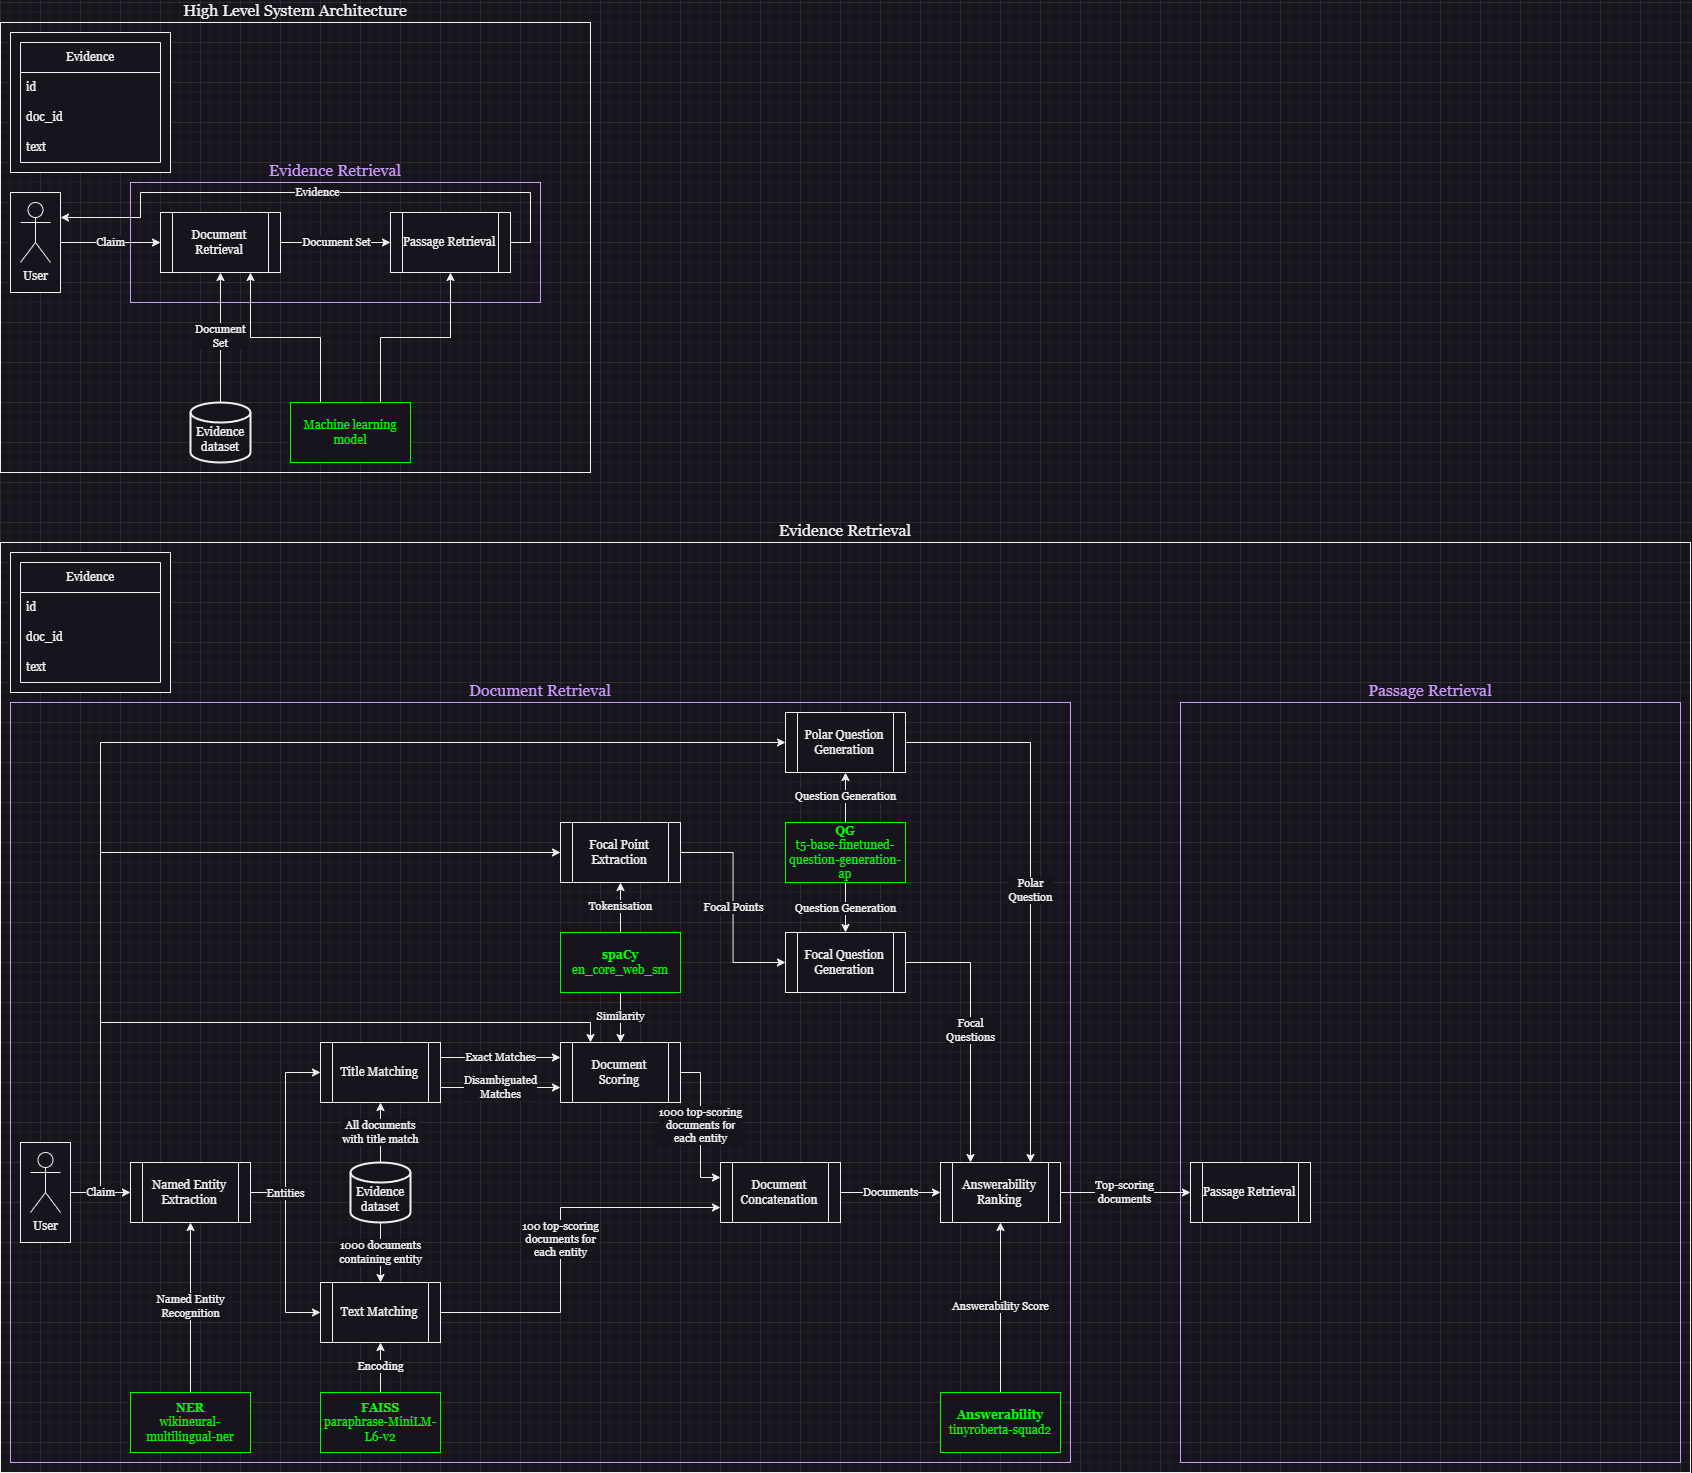
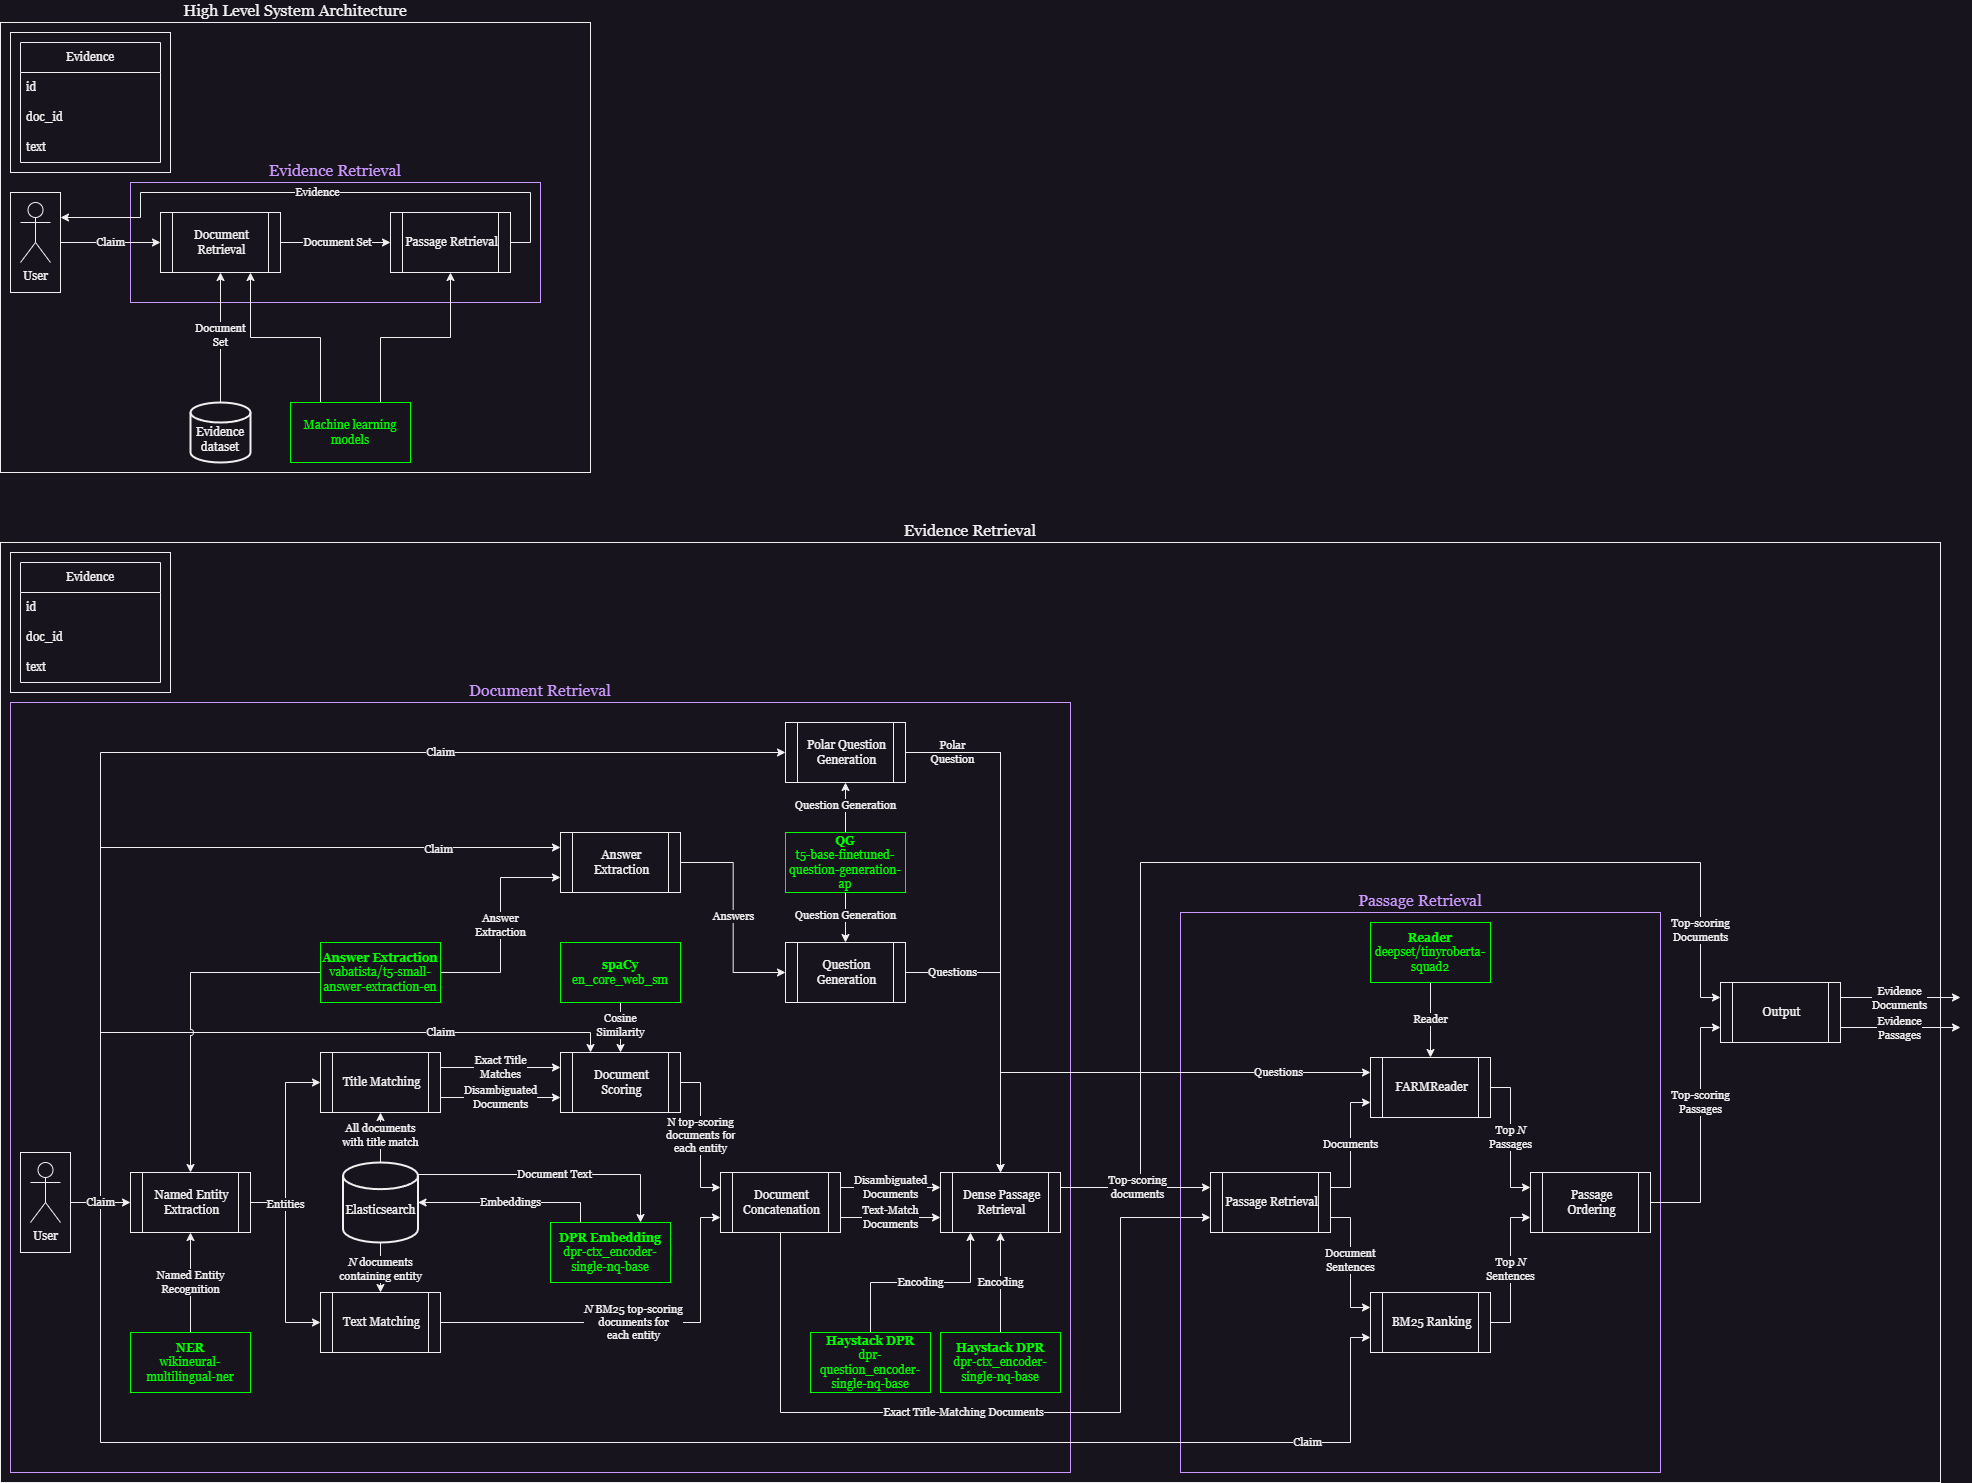
added BM25 ranking to passage retrieval, updated diagram

diff --git a/src/evidence_retrieval/evidence_retrieval.py b/src/evidence_retrieval/evidence_retrieval.py
@@ -11,6 +11,8 @@ from evidence_retrieval.tools.docstore_conversion import listdict_to_docstore, w
 from elasticsearch import Elasticsearch
 from dotenv import load_dotenv
 from tqdm import tqdm
+from rank_bm25 import BM25Okapi
+import re
 
 class EvidenceRetriever:
     def __init__(self, title_match_docs_limit=20, title_match_search_threshold=0, answerability_threshold=0.65, answerability_docs_limit=20, text_match_search_db_limit=1000, reader_threshold=0.7 ,questions=[]):
@@ -125,6 +127,55 @@ class EvidenceRetriever:
         return evidence_wrapper
 
     def retrieve_passages(self, evidence_wrapper):
+        # Retrieve passages using BM25 between the claim and evidence sentences
+        print("Retrieving passages using BM25")
+        claim = evidence_wrapper.get_claim()
+        evidence_texts = [{"doc_id": evidence.doc_id, "text": evidence.evidence_text} for evidence in evidence_wrapper.get_evidences()]
+
+        # Prepare evidence sentences and mappings
+        evidence_sentences = []
+        original_sentences = []
+        sent_doc_ids_map = {}
+
+        # Clean the claim
+        cleaned_claim = [token.text for token in self.nlp(claim) if not token.is_stop and not token.is_punct]
+
+        # Process documents
+        print("Processing documents")
+        for doc in evidence_texts:
+            for sent in self.nlp(doc["text"]).sents:
+                original_sentences.append(sent.text)
+
+                # Tokenize and clean
+                cleaned = [token.text for token in sent if not token.is_stop and not token.is_punct]
+                evidence_sentences.append(cleaned)
+                sent_doc_ids_map[" ".join(cleaned)] = (doc["doc_id"], sent.text)
+
+        # Create BM25 object and score sentences
+        print("Scoring sentences")
+        bm25 = BM25Okapi(evidence_sentences)
+        scores = bm25.get_scores(cleaned_claim)
+
+        # Prepare ranked sentences with original text
+        ranked_sentences = sorted([(evidence_sentences[i], scores[i], original_sentences[i]) for i in range(len(evidence_sentences))], key=lambda x: x[1], reverse=True)
+
+        # Only keep sentences with a score above 0
+        ranked_sentences = [sentence for sentence in ranked_sentences if sentence[1] > 0]
+
+        # Only keep the top N sentences
+        N = 5
+        ranked_sentences = ranked_sentences[:N]
+
+        # Add sentences to evidence
+        for cleaned, score, original in ranked_sentences:
+            doc_id, original_text = sent_doc_ids_map[" ".join(cleaned)]
+            for evidence in evidence_wrapper.get_evidences():
+                if evidence.doc_id == doc_id:
+                    sentence = Sentence(sentence=original, score=score, doc_id=doc_id, method="BM25")
+                    sentence.set_start_end(evidence.evidence_text)
+                    evidence.add_sentence(sentence)
+
+        # Retrieve passages using the FARM reader
         doc_store = wrapper_to_docstore(evidence_wrapper)
 
         # Initialise reader
@@ -147,7 +198,7 @@ class EvidenceRetriever:
                 if score > self.reader_threshold:
                     evidence = evidence_wrapper.get_evidence_by_id(id)
                     if evidence:
-                        sentence = Sentence(sentence=passage, score=score, doc_id=evidence.doc_id, question=question)
+                        sentence = Sentence(sentence=passage, score=score, doc_id=evidence.doc_id, question=question, method="FARM")
                         sentence.set_start_end(evidence.evidence_text)
                         evidence.add_sentence(sentence)
         return evidence_wrapper

diff --git a/src/analysis.py b/src/analysis.py
@@ -4,8 +4,6 @@ import logging
 import warnings
 from transformers.utils import logging as transformers_logging
 from analysis.retrieval_analysis import skeleton
-from analysis.score_analysis import text_match_scoring, disambig_scoring
-from analysis.score_plotter import plot_text_match_scores, plot_hit_position, plot_hit_relative_position
 from analysis.retrieval_stats import method_performance
 
 # Configure logging and warnings
@@ -40,42 +38,18 @@ def main():
 def run_analysis(current_dir, output_dir):
     database_path = os.path.join(current_dir, '..', 'data')
 
-    score_or_retrieval = input("Would you like to analyze retrieval performance or scoring?\n(r) Retrieval, (s) Scoring\n")
     preloaded_claim = input("Enter a claim ID to analyze, or type any character to analyze all claims:\n")
 
-    if score_or_retrieval == "r":
-        if preloaded_claim.isdigit():
-            preloaded_claim = int(preloaded_claim)
-            skeleton(database_path, output_dir, preloaded_claim)
-        else:
-            skeleton(database_path, output_dir)
-    elif score_or_retrieval == "s":
-        disambig_or_text = input("Would you like to analyze disambiguation or text matching?\n(d) Disambiguation, (t) Text matching\n")
-        if disambig_or_text == "d":
-            if preloaded_claim.isdigit():
-                preloaded_claim = int(preloaded_claim)
-                disambig_scoring(database_path, output_dir, preloaded_claim)
-            else:
-                disambig_scoring(database_path, output_dir)
-        elif disambig_or_text == "t":
-            if preloaded_claim.isdigit():
-                preloaded_claim = int(preloaded_claim)
-                text_match_scoring(database_path, output_dir, preloaded_claim)
-            else:
-                text_match_scoring(database_path, output_dir)
+    if preloaded_claim.isdigit():
+        preloaded_claim = int(preloaded_claim)
+        skeleton(database_path, output_dir, preloaded_claim)
+    else:
+        skeleton(database_path, output_dir)
 
 def analyse_results(output_dir):
     data = load_data(output_dir, "retrieval_results.json")
 
-    score_or_retrieval = input("Would you like to analyze retrieval performance or scoring?\n(r) Retrieval, (s) Scoring\n")
-    if score_or_retrieval == "r":
-        method_performance(data)
-    elif score_or_retrieval == "s":
-        plot_text_match_scores(data)
-        plot_hit_position(data)
-        plot_hit_relative_position(data)
-    else:
-        print("Invalid input. Please enter 'r' or 's'.")
+    method_performance(data)
 
 if __name__ == "__main__":
     main()

diff --git a/src/models.py b/src/models.py
@@ -17,6 +17,18 @@ class Evidence:
     def add_sentence(self, sentence):
         self.sentences.append(sentence)
 
+    def merge_overlapping_sentences(self):
+        self.sentences = sorted(self.sentences, key=lambda x: x.start)
+        merged_sentences = []
+        for sentence in self.sentences:
+            if merged_sentences and sentence.start <= merged_sentences[-1].end:
+                merged_sentences[-1].end = sentence.end
+                merged_sentences[-1].sentence += " " + sentence.sentence
+                merged_sentences[-1].score = max(merged_sentences[-1].score, sentence.score)
+            else:
+                merged_sentences.append(sentence)
+        self.sentences = merged_sentences
+
     def __str__(self):
         return f"Query: {self.query}\nDoc ID: {self.doc_id}\nDoc Score: {self.doc_score}\nEvidence Text: {self.evidence_text}\nSentences: {self.sentences}\nDoc Retrieval Method: {self.doc_retrieval_method}"
 
@@ -56,13 +68,14 @@ class EvidenceWrapper:
             return f"Query: {self.query}\nEvidences: {self.evidences}"
 
 class Sentence:
-    def __init__(self, sentence=None, score=0, doc_id=None, start=None, end=None, question=None):
+    def __init__(self, sentence=None, score=0, doc_id=None, start=None, end=None, question=None, method=None):
         self.doc_id = doc_id
         self.sentence = sentence
         self.score = score
         self.start = start
         self.end = end
         self.question = question
+        self.method = method
 
     def set_start_end(self, text):
         self.start = text.find(self.sentence)

diff --git a/src/analysis/retrieval_analysis.py b/src/analysis/retrieval_analysis.py
@@ -408,7 +408,8 @@ def skeleton(database_path, output_dir, preloaded_claim=None):
                     "score": str(sentence.score),
                     "start": sentence.start,
                     "end": sentence.end,
-                    "question": sentence.question
+                    "question": sentence.question,
+                    "method": sentence.method
                 })
             result["evidence"].append(to_append)
 

diff --git a/src/main.py b/src/main.py
@@ -33,6 +33,8 @@ def main():
         # Print evidence
         print("\n\033[1mBase claim: {}\033[0m".format(evidence_collection.get_claim()))
         for evidence in evidence_collection.get_evidences():
+            evidence.merge_overlapping_sentences()
+
             print("\nDoc ID:", evidence.doc_id)
             # print("Evidence Document:\n", evidence.evidence_text)
             print("Document Score:", str(evidence.doc_score))

diff --git a/src/evidence_retrieval/tools/passage_retrieval.py b/src/evidence_retrieval/tools/passage_retrieval.py
@@ -1,5 +1,6 @@
 import torch
 
+# These functions are unused in the current implementation of the project
 def extract_focals(nlp, text):
     print("Extracting focal points from text")
     doc = nlp(text)
